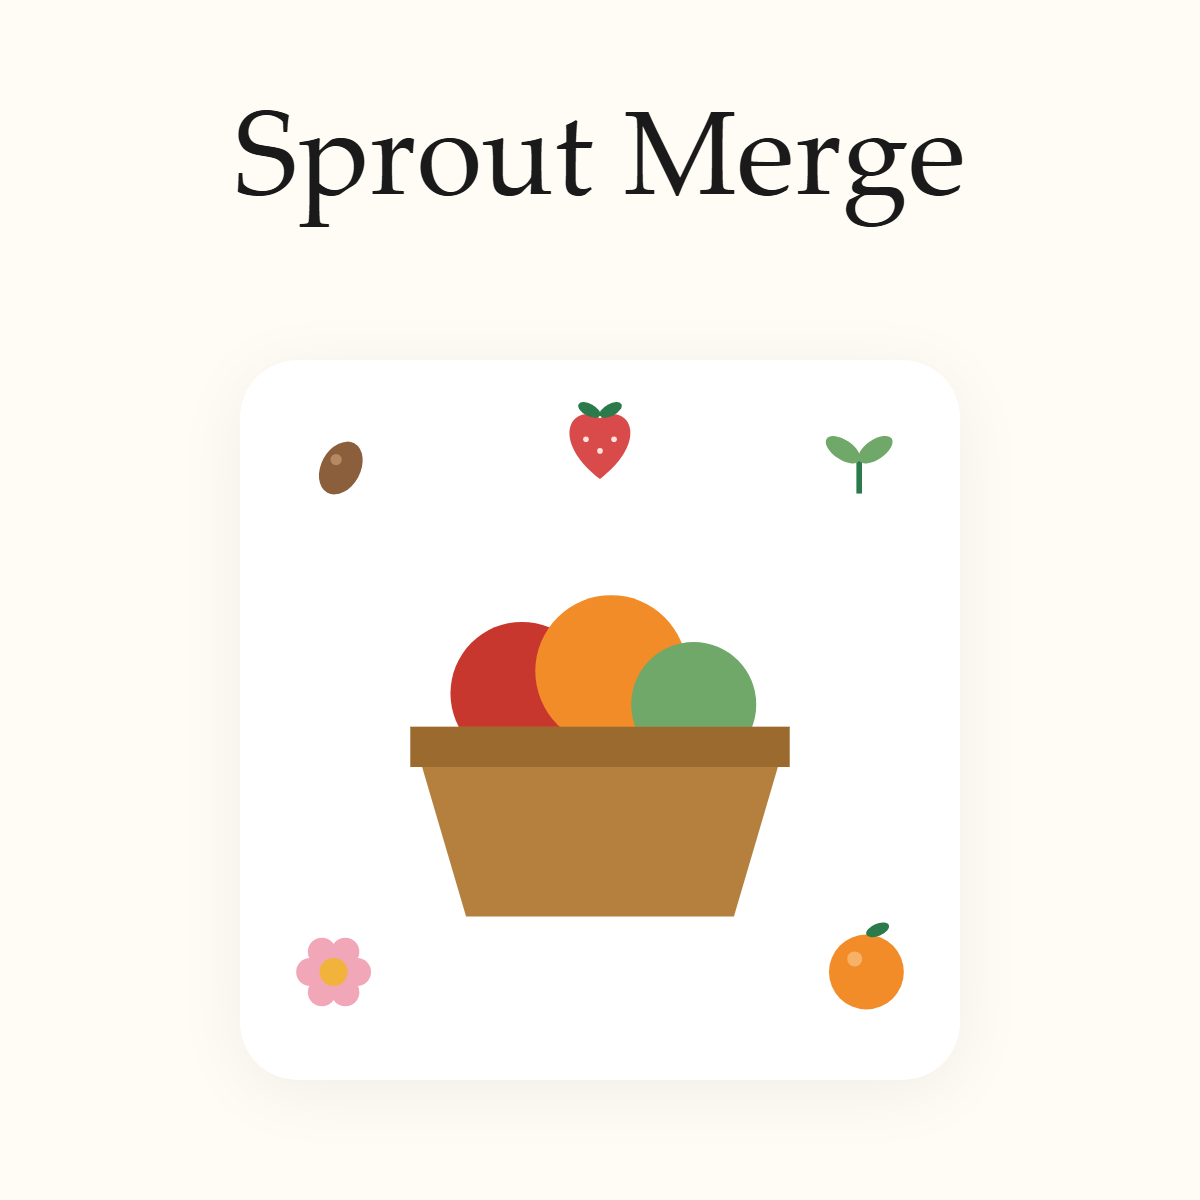
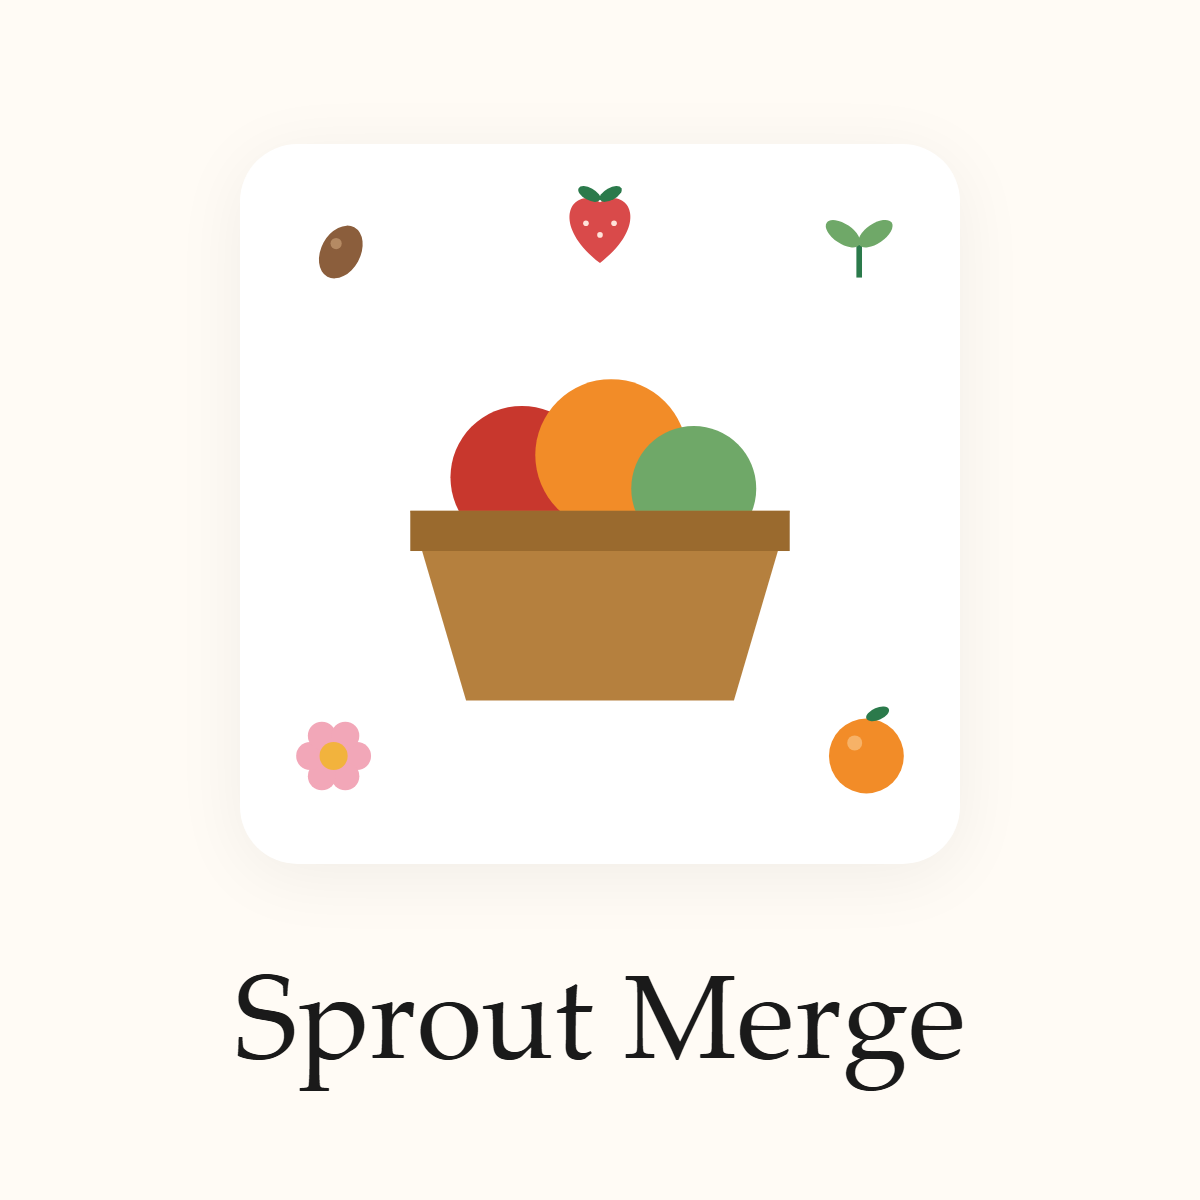
Nop Sprout Merge len CrazyGames (cho duyet); anh bia Sprout Merge tranh goc nhan; toan quyen luot chay, tam dung GameMonetize, chon ten 3 game; cap nhat so

diff --git a/web/merge-harvest/index.html b/web/merge-harvest/index.html
@@ -520,10 +520,10 @@ function draw() {
   }
 }
 
-// Local cover renderer (?demo=cover&w=&h=): one big basket, the smaller items around it, the title on top.
+// Local cover renderer (?demo=cover&w=&h=): one big basket, the smaller items around it, the title beside or below it.
 async function post(name, blob) { await fetch('/frame?v=' + DEMO + (name === 'cover' || name === 'coverdone' ? '-' + W + 'x' + H : '') + '&n=' + (name === 'coverdone' ? 'done' : name) + (name === 'cover' ? '&ext=png' : ''), { method: 'POST', body: blob }); }
 async function coverShot() {
-  const m = Math.min(W, H), wide = W > H * 1.2, cx = wide ? W * 0.68 : W / 2, cy = wide ? H * 0.52 : H * 0.6, R = m * (wide ? 0.34 : 0.3);
+  const m = Math.min(W, H), wide = W > H * 1.2, cx = wide ? W * 0.68 : W / 2, cy = wide ? H * 0.52 : H * 0.42, R = m * (wide ? 0.34 : 0.3);
   g.setTransform(1, 0, 0, 1, 0, 0); g.fillStyle = C.page; g.fillRect(0, 0, W, H);
   g.save(); g.shadowColor = 'rgba(0,0,0,.06)'; g.shadowBlur = m * 0.06; g.shadowOffsetY = m * 0.01;
   g.fillStyle = C.card; rr(cx - R, cy - R, R * 2, R * 2, R * 0.16); g.fill(); g.restore();
@@ -531,7 +531,7 @@ async function coverShot() {
   [[1, -0.72, -0.7], [2, 0.72, -0.72], [4, -0.74, 0.7], [6, 0.74, 0.7], [5, 0, -0.78]].forEach(q => item(q[0], cx + q[1] * R, cy + q[2] * R, R * 0.13));
   const size = wide ? Math.min(W * 0.075, H * 0.2) : Math.min(W * 0.13, H * 0.1);
   if (wide) { text('Sprout', W * 0.2, H * 0.42, size, C.text, 'center', F.head); text('Merge', W * 0.2, H * 0.42 + size * 0.95, size, C.text, 'center', F.head); }
-  else text('Sprout Merge', W / 2, H * 0.14, size, C.text, 'center', F.head);
+  else text('Sprout Merge', W / 2, H * 0.86, size, C.text, 'center', F.head);   // below the art: portals cover the top-left corner with a label
   await post('cover', await new Promise(r => cv.toBlob(r, 'image/png')));
   await post('coverdone', 'x');
 }

diff --git a/web/merge-harvest/index.src.html b/web/merge-harvest/index.src.html
@@ -384,10 +384,10 @@ function draw() {
   }
 }
 
-// Local cover renderer (?demo=cover&w=&h=): one big basket, the smaller items around it, the title on top.
+// Local cover renderer (?demo=cover&w=&h=): one big basket, the smaller items around it, the title beside or below it.
 async function post(name, blob) { await fetch('/frame?v=' + DEMO + (name === 'cover' || name === 'coverdone' ? '-' + W + 'x' + H : '') + '&n=' + (name === 'coverdone' ? 'done' : name) + (name === 'cover' ? '&ext=png' : ''), { method: 'POST', body: blob }); }
 async function coverShot() {
-  const m = Math.min(W, H), wide = W > H * 1.2, cx = wide ? W * 0.68 : W / 2, cy = wide ? H * 0.52 : H * 0.6, R = m * (wide ? 0.34 : 0.3);
+  const m = Math.min(W, H), wide = W > H * 1.2, cx = wide ? W * 0.68 : W / 2, cy = wide ? H * 0.52 : H * 0.42, R = m * (wide ? 0.34 : 0.3);
   g.setTransform(1, 0, 0, 1, 0, 0); g.fillStyle = C.page; g.fillRect(0, 0, W, H);
   g.save(); g.shadowColor = 'rgba(0,0,0,.06)'; g.shadowBlur = m * 0.06; g.shadowOffsetY = m * 0.01;
   g.fillStyle = C.card; rr(cx - R, cy - R, R * 2, R * 2, R * 0.16); g.fill(); g.restore();
@@ -395,7 +395,7 @@ async function coverShot() {
   [[1, -0.72, -0.7], [2, 0.72, -0.72], [4, -0.74, 0.7], [6, 0.74, 0.7], [5, 0, -0.78]].forEach(q => item(q[0], cx + q[1] * R, cy + q[2] * R, R * 0.13));
   const size = wide ? Math.min(W * 0.075, H * 0.2) : Math.min(W * 0.13, H * 0.1);
   if (wide) { text('Sprout', W * 0.2, H * 0.42, size, C.text, 'center', F.head); text('Merge', W * 0.2, H * 0.42 + size * 0.95, size, C.text, 'center', F.head); }
-  else text('Sprout Merge', W / 2, H * 0.14, size, C.text, 'center', F.head);
+  else text('Sprout Merge', W / 2, H * 0.86, size, C.text, 'center', F.head);   // below the art: portals cover the top-left corner with a label
   await post('cover', await new Promise(r => cv.toBlob(r, 'image/png')));
   await post('coverdone', 'x');
 }

diff --git a/CLAUDE.md b/CLAUDE.md
@@ -13,6 +13,7 @@ Trả lời tiếng Việt, ngắn gọn, tự làm; chỉ hỏi khi cần tài 
 - **Làm liên tục (chủ dặn 13/10): mỗi lượt làm hết việc này sang việc kế trong `VIEC.md`, KHÔNG dừng để chờ chủ gõ "làm tiếp". Chỉ dừng khi: (a) bí thật sự và cần chủ điền tài khoản, mật khẩu, khóa hoặc quyết định tiền; (b) mọi việc còn lại đều chờ chủ (ghi ở đầu `HUONG-DAN-CHU.md`). Việc bị chặn thì bỏ qua, làm việc khác trước, không đứng chờ.**
 - Lệnh viết kiểu PowerShell: nối bằng `;`, không dùng `&&`.
 - Thiếu tài khoản / trang nền tảng (itch.io…): bỏ qua, ghi ⚪, không báo 🔴.
+- **Toàn quyền (chủ dặn 13/10 tối): việc tồn đọng của chủ (nộp cổng, xem kết quả duyệt, chọn tên, cài đặt trên GitHub…) thì khung chat trên máy tự làm thay bằng Chrome đang đăng nhập của chủ, không hỏi lại; chỉ hỏi khi đụng tiền/thanh toán. Máy không tự gõ mật khẩu, không tự tạo tài khoản mới, không vượt CAPTCHA hay bước xác minh danh tính: gặp thì ghi 1 dòng vào `HUONG-DAN-CHU.md` rồi làm việc khác.**
 - Việc chỉ chủ làm được: gom vào `HUONG-DAN-CHU.md`, nhắc 1 lần/ngày trong Discord #game, không chờ chủ.
 - Trả lời chủ 1 dòng.
 - Vẫn phải hỏi: tài khoản, mật khẩu, tiền.
@@ -27,12 +28,12 @@ Trên đám mây (routine, Linux): dùng bash; `pip install -r tools/requirement
 
 | Tên | Thư mục | Số màn | Cổng đã nộp | Ngày nộp | Trạng thái duyệt |
 |---|---|---|---|---|---|
-| Tap Arcade | `web/tap-arcade` | 45 (Journey) | GameMonetize (bản 5 trò) · CrazyGames | 09/10 · 11/10 | chờ duyệt (xem lần cuối 09/10) · bị từ chối 11/10 |
+| Tap Arcade | `web/tap-arcade` | 45 (Journey) | GameMonetize (bản 5 trò) · CrazyGames | 09/10 · 11/10 | bị từ chối (xem 13/10) · bị từ chối 11/10 |
 | Boba Sort | `web/boba-sort` | 120 | CrazyGames | 11/10 | bị từ chối 11/10 |
 | Car Jam Escape | `web/car-jam` | 120 (+40 dự trữ) | CrazyGames (bản 1) | 11/10 | bị từ chối 11/10; bản giao diện mới có gói, chờ chủ nộp |
 | Tile Trio | `web/tile-trio` | 120 | CrazyGames | 11/10 | bị từ chối 11/10 |
-| One Line Fill | `web/one-line` | 120 | chưa nộp | - | có gói + ảnh bìa, video; chờ chủ nộp |
-| Sprout Merge (thư mục và khóa lưu vẫn là `merge-harvest`) | `web/merge-harvest` | vô tận (gộp + idle, 10 bậc, mùa) | chưa nộp | - | game đủ 13/10, có gói + ảnh bìa, video; đổi tên 13/10 vì "Merge Harvest" trùng game có thật; mẫu tham chiếu ngôn ngữ thiết kế |
+| One Line Fill | `web/one-line` | 120 | CrazyGames | 13/10 | chờ duyệt (máy tự nộp) |
+| Sprout Merge (thư mục và khóa lưu vẫn là `merge-harvest`) | `web/merge-harvest` | vô tận (gộp + idle, 10 bậc, mùa) | CrazyGames | 13/10 | chờ duyệt (máy tự nộp); đổi tên 13/10 vì "Merge Harvest" trùng game có thật; mẫu tham chiếu ngôn ngữ thiết kế |
 
 GameDistribution: đăng ký tài khoản 09/10, chờ thư. itch.io: có khóa, chưa có trang game. Chi tiết: `THEO-DOI.md`.
 
@@ -51,7 +52,8 @@ Kho GitHub: game-factory (`duongtrongtin0506-hue/game-factory`, riêng tư, nhá
 ## Chờ chủ (xem đầu `HUONG-DAN-CHU.md`)
 
 - Cài Claude GitHub App cho kho game-factory (routine đám mây chưa tạo được: lỗi repo_access_denied; tạo lại bằng skill schedule, cron `0 1,7,13 * * *`, Sonnet).
-- Nộp Car Jam + One Line Fill lên CrazyGames; lấy GameId GameMonetize cho 4 game; xem kết quả duyệt Tap Arcade; thư kích hoạt GameDistribution.
+- GitHub App: trang cài đặt đòi xác minh qua email (máy không tự làm được). GameDistribution: chưa có thư (13/10). Playgama: chủ tạo tài khoản.
+- GameMonetize tạm dừng (từ chối Tap Arcade 13/10, cổng không nhận game làm bằng AI). CrazyGames: máy tự nộp, cách làm ở `CONG.md`.
 
 ## Sơ đồ
 
@@ -103,3 +105,6 @@ Chạy thử trên máy: launch config `game-web` (`.claude/launch.json`), cổn
 - 2026-10-13 – Chủ dặn: khung chat chủ động làm liên tục hàng việc, không dừng chờ câu "làm tiếp"; chỉ hỏi khi cần tài khoản, mật khẩu, tiền – chủ không muốn phải nhắc.
 - 2026-10-13 – Chủ chọn ngôn ngữ thiết kế xuyên suốt (`THIET-KE.md`): nền giấy ấm/đêm, card trắng bo 16, nút pill, 1 màu nhấn, headline serif mảnh – game cũ bị chê chất lượng chung; game mới theo từ đầu, game cũ đổi dần.
 - 2026-10-13 – Chuyển sang KE-HOACH-V3: bỏ chia giai đoạn và các mốc chờ ngày, làm theo hàng việc VIEC.md; cho làm game mới song song (mục tiêu 2 game/tuần) và nộp nhiều cổng; routine đám mây 3 lượt/ngày – chủ dự án yêu cầu, để không phụ thuộc 1 cổng hay 1 game.
+- 2026-10-13 – Chủ giao toàn quyền cho lượt chạy: máy tự làm cả việc tồn đọng của chủ, chỉ hỏi khi đụng tiền – chủ không muốn phải bấm tay hay trả lời.
+- 2026-10-13 – Tạm dừng GameMonetize, không lấy GameId cho game khác – cổng từ chối Tap Arcade vì chất lượng, ghi rõ không nhận game làm bằng AI và dọa khóa tài khoản nếu nộp lặp lại; mở lại khi có game được cổng khác duyệt.
+- 2026-10-13 – Đổi tên 3 game trùng tên theo đề xuất (Three of a Tile, Pearl Cup Sort, Red Car Out), đổi ngay trước lần nộp mới của từng game – CrazyGames đòi tên và nội dung nguyên bản; chủ giao máy quyết.

diff --git a/VIEC.md b/VIEC.md
@@ -5,12 +5,14 @@ Cách dùng: làm từ trên xuống; xong thì đổi `[ ]` thành `[x]` kèm n
 ## 1. Lỗi làm game hỏng / không đăng được
 
 - [ ] Xem `TRANG-THAI.md` + lần chạy `daily`, `weekly-selftest`, `bao-discord` gần nhất; 🔴 thì sửa theo bước lỗi (việc thường trực, mỗi lượt).
-- [ ] `tools/test_ads.js` chỉ thử SDK giả: viết trang thử nạp SDK thật của từng cổng ở chế độ thử (CrazyGames có `?useLocalSdk=true`; GameDistribution có gameId thử) và ghi kết quả vào `CONG.md`.
+- [x] 13/10 CrazyGames: SDK thật đã chạy trong công cụ QA của cổng với One Line Fill và Sprout Merge (init, Gameplay Start, Data Get/Set Item); quảng cáo chưa thử được vì Basic Launch tắt quảng cáo.
+- [ ] GameDistribution, Playgama: thử SDK thật khi có tài khoản (GameDistribution có gameId thử) và ghi kết quả vào `CONG.md`.
+- [ ] Firefox của Playwright không khởi động trên máy này ("spawn UNKNOWN"): tìm nguyên nhân hoặc chạy `python tools/smoke_test.py firefox` trên Actions.
 
 ## 2. Game bị cổng từ chối
 
-- [ ] [nặng] Nâng chất lượng Boba Sort lên mức Car Jam bản 2 (cảnh nền theo chặng, hiệu ứng rót, nhạc, xu + sưu tầm cốc, phím tắt, hướng dẫn không chữ) rồi đưa vào CẦN NỘP cho CrazyGames (bài nộp mới) và các cổng khác.
-- [ ] [nặng] Tương tự cho Tile Trio (kèm hạ độ khó 60 màn cuối: trung bình `hard` ~65 xuống ~45, xen màn dễ).
+- [ ] [nặng] (đổi tên thành Pearl Cup Sort khi làm, theo các bước cuối bảng `ASSETS.md`) Nâng chất lượng Boba Sort lên mức Car Jam bản 2 (cảnh nền theo chặng, hiệu ứng rót, nhạc, xu + sưu tầm cốc, phím tắt, hướng dẫn không chữ) rồi đưa vào CẦN NỘP cho CrazyGames (bài nộp mới) và các cổng khác.
+- [ ] [nặng] Tương tự cho Tile Trio (đổi tên thành Three of a Tile; kèm hạ độ khó 60 màn cuối: trung bình `hard` ~65 xuống ~45, xen màn dễ).
 - [ ] [nặng] Tương tự cho Tap Arcade bản Journey.
 - [x] 13/10 One Line Fill: giao diện mới, ảnh bìa mọi cỡ và 2 video đã có (`assets-goc/one-line`). Còn: nhạc nền.
 - [x] 13/10 Gói của cả 5 game cho CrazyGames, GameMonetize, GameDistribution đã có và đã ghi vào CẦN NỘP ở đầu `HUONG-DAN-CHU.md`.
@@ -26,10 +28,15 @@ Cách dùng: làm từ trên xuống; xong thì đổi `[ ]` thành `[x]` kèm n
 
 ## 3. Game đang sống / gần lên sóng
 
+- [ ] Mỗi lượt trên máy: mở https://developer.crazygames.com/games xem kết quả duyệt One Line Fill và Sprout Merge (nộp 13/10); ghi vào `THEO-DOI.md`; bị từ chối thì chép nguyên văn lý do.
+- [ ] Ảnh bìa dọc/vuông của Car Jam, Boba Sort, Tile Trio, Tap Arcade: đưa tên game ra khỏi góc trên bên trái (cổng phủ nhãn, số đo ở `CONG.md`), như đã làm với One Line Fill và Sprout Merge.
+- [ ] Sprout Merge không hiện tên game ở đâu trong game (CrazyGames yêu cầu tên nộp trùng tên trong game): thêm tên nhỏ ở màn chính.
+
 - [x] 13/10 Car Jam: thêm 2 cảnh (DESERT ROAD, SUNSET HILLS), cảnh lặp lại khi hết, chữ thắng tính theo số màn, 120 màn, vào `TAKE_GAMES`; `run_daily --no-publish` đạt.
 - [x] 13/10 `tools/carjam.py harden`: leo đồi đổi màn dễ trong hàng dự trữ thành màn ≥ 16 bước; nửa hàng dự trữ (20/40) đã là màn 16–23 bước; `run_daily` chạy thêm 40 giây mỗi ngày. Màn 101–120 đã vào game giữ nguyên (8–21 bước).
 - [x] 13/10 Car Jam có thử thách ngày: 1 màn/ngày theo ngày (màn 21 trở đi), chuỗi ngày liên tiếp, thưởng 25–55 xu một lần/ngày, nút ở menu, `?daily=1` để thử.
 - [x] 13/10 Thử thách ngày đã có ở Boba Sort, Tile Trio, One Line Fill (nút ở menu, chuỗi ngày, `?daily=1`).
+- [ ] Car Jam: đổi tên thành Red Car Out (các bước cuối bảng `ASSETS.md`) rồi tự nộp bài mới lên CrazyGames sau khi One Line Fill có kết quả.
 - [ ] Car Jam: chọn mức khó + chướng ngại (ô khóa) theo `NGHIEN-CUU.md` mục game cùng thể loại. [nặng]
 
 ## 4. Game mới từ `Y-TUONG.md`

diff --git a/HUONG-DAN-CHU.md b/HUONG-DAN-CHU.md
@@ -7,17 +7,17 @@ Mỗi việc 1 dòng có link; xong thì nhắn Claude câu in đậm (hoặc nh
 Từ 13/10 khung chat trên máy tự nộp CrazyGames bằng Chrome đang đăng nhập của chủ (cách làm ở `CONG.md`). Chủ không phải bấm gì ở mục này; chỉ cần giữ Chrome đăng nhập CrazyGames.
 
 - [x] 13/10 One Line Fill → CrazyGames: đã nộp, chờ duyệt.
-- [ ] (máy tự làm) Sprout Merge → CrazyGames.
+- [x] 13/10 Sprout Merge → CrazyGames: đã nộp, chờ duyệt.
 - [ ] (máy tự làm, sau khi One Line Fill có kết quả) Car Jam Escape, Boba Sort, Tile Trio, Tap Arcade → CrazyGames, bài nộp mới.
 - [x] 13/10 Đã xem GameMonetize: Tap Arcade bản 5 trò BỊ TỪ CHỐI (không đạt chuẩn chất lượng; cổng không nhận game làm bằng AI, nộp lặp lại có thể khóa tài khoản). Máy tạm dừng cổng này, không lấy GameId cho các game khác. Muốn nộp tiếp thì nhắn: **nộp tiếp gamemonetize**.
 
-## CẦN CHỌN (không chặn máy; chưa chọn thì máy giữ tên cũ)
+## CẦN CHỌN
 
-- [ ] Tên game trùng game có thật (bảng ở `ASSETS.md`): Tile Trio trùng chính xác một app cùng thể loại; Boba Sort trùng một game itch.io và gần giống 2 app; Car Jam Escape trùng một trang web game. Tên thay thế đề xuất (mỗi tên đã tìm 0 lượt, máy sẽ tra trước khi đổi): Tile Trio → **Three of a Tile**; Boba Sort → **Pearl Cup Sort**; Car Jam Escape → **Red Car Out**. Nhắn: **đổi tên <tên cũ> thành <tên mới>** hoặc **giữ tên**. Nên chọn trước khi nộp 3 game này.
+- [x] 13/10 Tên game trùng: chủ giao toàn quyền nên máy đã chọn theo đề xuất: Tile Trio → **Three of a Tile**, Boba Sort → **Pearl Cup Sort**, Car Jam Escape → **Red Car Out**. Máy đổi tên từng game ngay trước khi nộp bài mới của game đó (tra trùng lại lúc đổi). Muốn giữ tên cũ thì nhắn: **giữ tên <tên game>**.
 
 ## CẦN TẠO TÀI KHOẢN
 
-- [ ] GameDistribution: tìm thư kích hoạt (đăng ký 09/10) trong Gmail, từ GameDistribution hoặc Azerion. Nhắn: **có thư gamedistribution**.
+- [ ] GameDistribution: 13/10 máy đã tìm trong Gmail, chưa có thư nào từ GameDistribution hoặc Azerion (mục Spam chưa xem). Nếu chủ nhớ đã đăng ký xong thì xem Spam; chưa thì đăng ký lại ở https://developer.gamedistribution.com/ (máy không được tự tạo tài khoản). Nhắn: **có thư gamedistribution**.
 - [ ] Cài Claude GitHub App cho kho game-factory (để routine đám mây đẩy mã được). 13/10 máy đã thử làm thay: GitHub dừng ở trang "Confirm access" đòi xác minh danh tính qua email (mã gửi về hộp thư), bước này máy không được tự làm. Chủ mở https://github.com/settings/installations/167740239 → **Verify via email** → nhập mã → **Only select repositories** → thêm `game-factory` → **Save**. Nhắn: **xong github app**.
 - [ ] Playgama (một lần nộp ra nhiều cổng đối tác, 6 gói đã sẵn): tạo tài khoản nhà phát triển tại https://developer.playgama.com/ → nhắn **xong tài khoản playgama** → máy chỉ từng bước Add Game / Test Game / Submit với `phat-hanh\playgama\<game>\<game>.zip`.
 - [ ] Cổng khác (Yandex Games, GamePix…): chưa cần, xem `CONG.md`.

diff --git a/THEO-DOI.md b/THEO-DOI.md
@@ -40,7 +40,7 @@ Tải đo trên bản không quảng cáo, giả lập máy yếu (CPU chậm 4 
 | Tile Trio (giao diện mới) | từ chối 11/10 · gói bản mới | tạm dừng cổng | gói, chờ tài khoản | gói, chờ tài khoản | chưa có SDK |
 | One Line Fill (giao diện mới) | NỘP 13/10, chờ duyệt (https://developer.crazygames.com/games/32ccf42a-82c6-4ee2-8076-a8d117e15517) | tạm dừng cổng | gói, chờ tài khoản | gói, chờ tài khoản | chưa có SDK |
 | Tap Arcade (giao diện mới) | từ chối 11/10 · gói bản mới | bản 5 trò nộp 09/10 → BỊ TỪ CHỐI (xem 13/10) | gói, chờ tài khoản | gói, chờ tài khoản | chưa có SDK |
-| Sprout Merge (thư mục `merge-harvest`, game đủ 13/10) | gói, chưa nộp | tạm dừng cổng | gói, chờ tài khoản | gói, chờ tài khoản | chưa có SDK |
+| Sprout Merge (thư mục `merge-harvest`, game đủ 13/10) | NỘP 13/10, chờ duyệt (https://developer.crazygames.com/games/e3b81012-d6c3-49e0-89e7-905c9b3e8da7) | tạm dừng cổng | gói, chờ tài khoản | gói, chờ tài khoản | chưa có SDK |
 
 Lượt chơi, doanh thu: chưa có, chưa game nào lên sóng.
 
@@ -54,7 +54,8 @@ Lượt chơi, doanh thu: chưa có, chưa game nào lên sóng.
 | Car Jam Escape | CrazyGames | 2026-10-11 | BỊ TỪ CHỐI 2026-10-11 | Có |
 | Tile Trio | CrazyGames | 2026-10-11 | BỊ TỪ CHỐI 2026-10-11 | Có |
 | One Line Fill | CrazyGames | 2026-10-13 | Chờ duyệt (Awaiting review) | Có, QA của cổng nhận Gameplay Start + Data |
-| (tài khoản) | GameDistribution | 2026-10-09 | Đã gửi đăng ký, chờ thư | Chưa viết |
+| Sprout Merge | CrazyGames | 2026-10-13 | Chờ duyệt (Awaiting review) | Có, QA của cổng nhận Gameplay Start + Data (Get/Set Item) |
+| (tài khoản) | GameDistribution | 2026-10-09 | Đã gửi đăng ký; 13/10 tìm Gmail chưa có thư nào từ GameDistribution/Azerion (chưa xem mục Spam) | Có trong `web/ads.js`, chưa thử thật |
 
 Ghi chú:
 - Bốn game còn lại chưa lên GameMonetize: mỗi game cần một GameId riêng (hằng `GAME_ID` đang để trống).

diff --git a/TRANG-THAI.md b/TRANG-THAI.md
@@ -30,3 +30,4 @@
 - 13/10 15:00 🎮 Xong thử thách ngày cho 4 game, Merge Harvest thành game đủ (mùa, thưởng ngày, ảnh bìa, video), 18 gói, VAN-HANH/CHI-SO/ASSETS · Gói chờ nộp 2 · Việc còn 14 · ⚪ routine đám mây chờ chủ cài Claude GitHub App
 - 13/10 16:30 🎮 Xong cổng Playgama (SDK + 6 gói), đổi tên game mới thành Sprout Merge (tên cũ trùng game có thật) · Gói chờ nộp 3 (Car Jam, One Line Fill, Sprout Merge → CrazyGames) · Việc còn 16 · ⚪ routine đám mây chờ chủ cài Claude GitHub App
 - 13/10 17:10 🎮 Xong tra trùng tên 6 game (3 tên cần chủ chọn), video Tap Arcade mới · Gói chờ nộp 3 · Việc còn 14 · ⚪ routine đám mây chờ chủ cài Claude GitHub App
+- 13/10 22:25 🎮 Xong tự nộp One Line Fill + Sprout Merge lên CrazyGames (chờ duyệt), lưu tiến trình lên đám mây CrazyGames, ảnh bìa tránh góc nhãn; GameMonetize từ chối Tap Arcade → tạm dừng cổng · Gói chờ nộp 0 (4 game còn lại chờ kết quả 2 bài này) · Việc còn 17 · ⚪ GitHub App đòi xác minh email, chờ chủ
